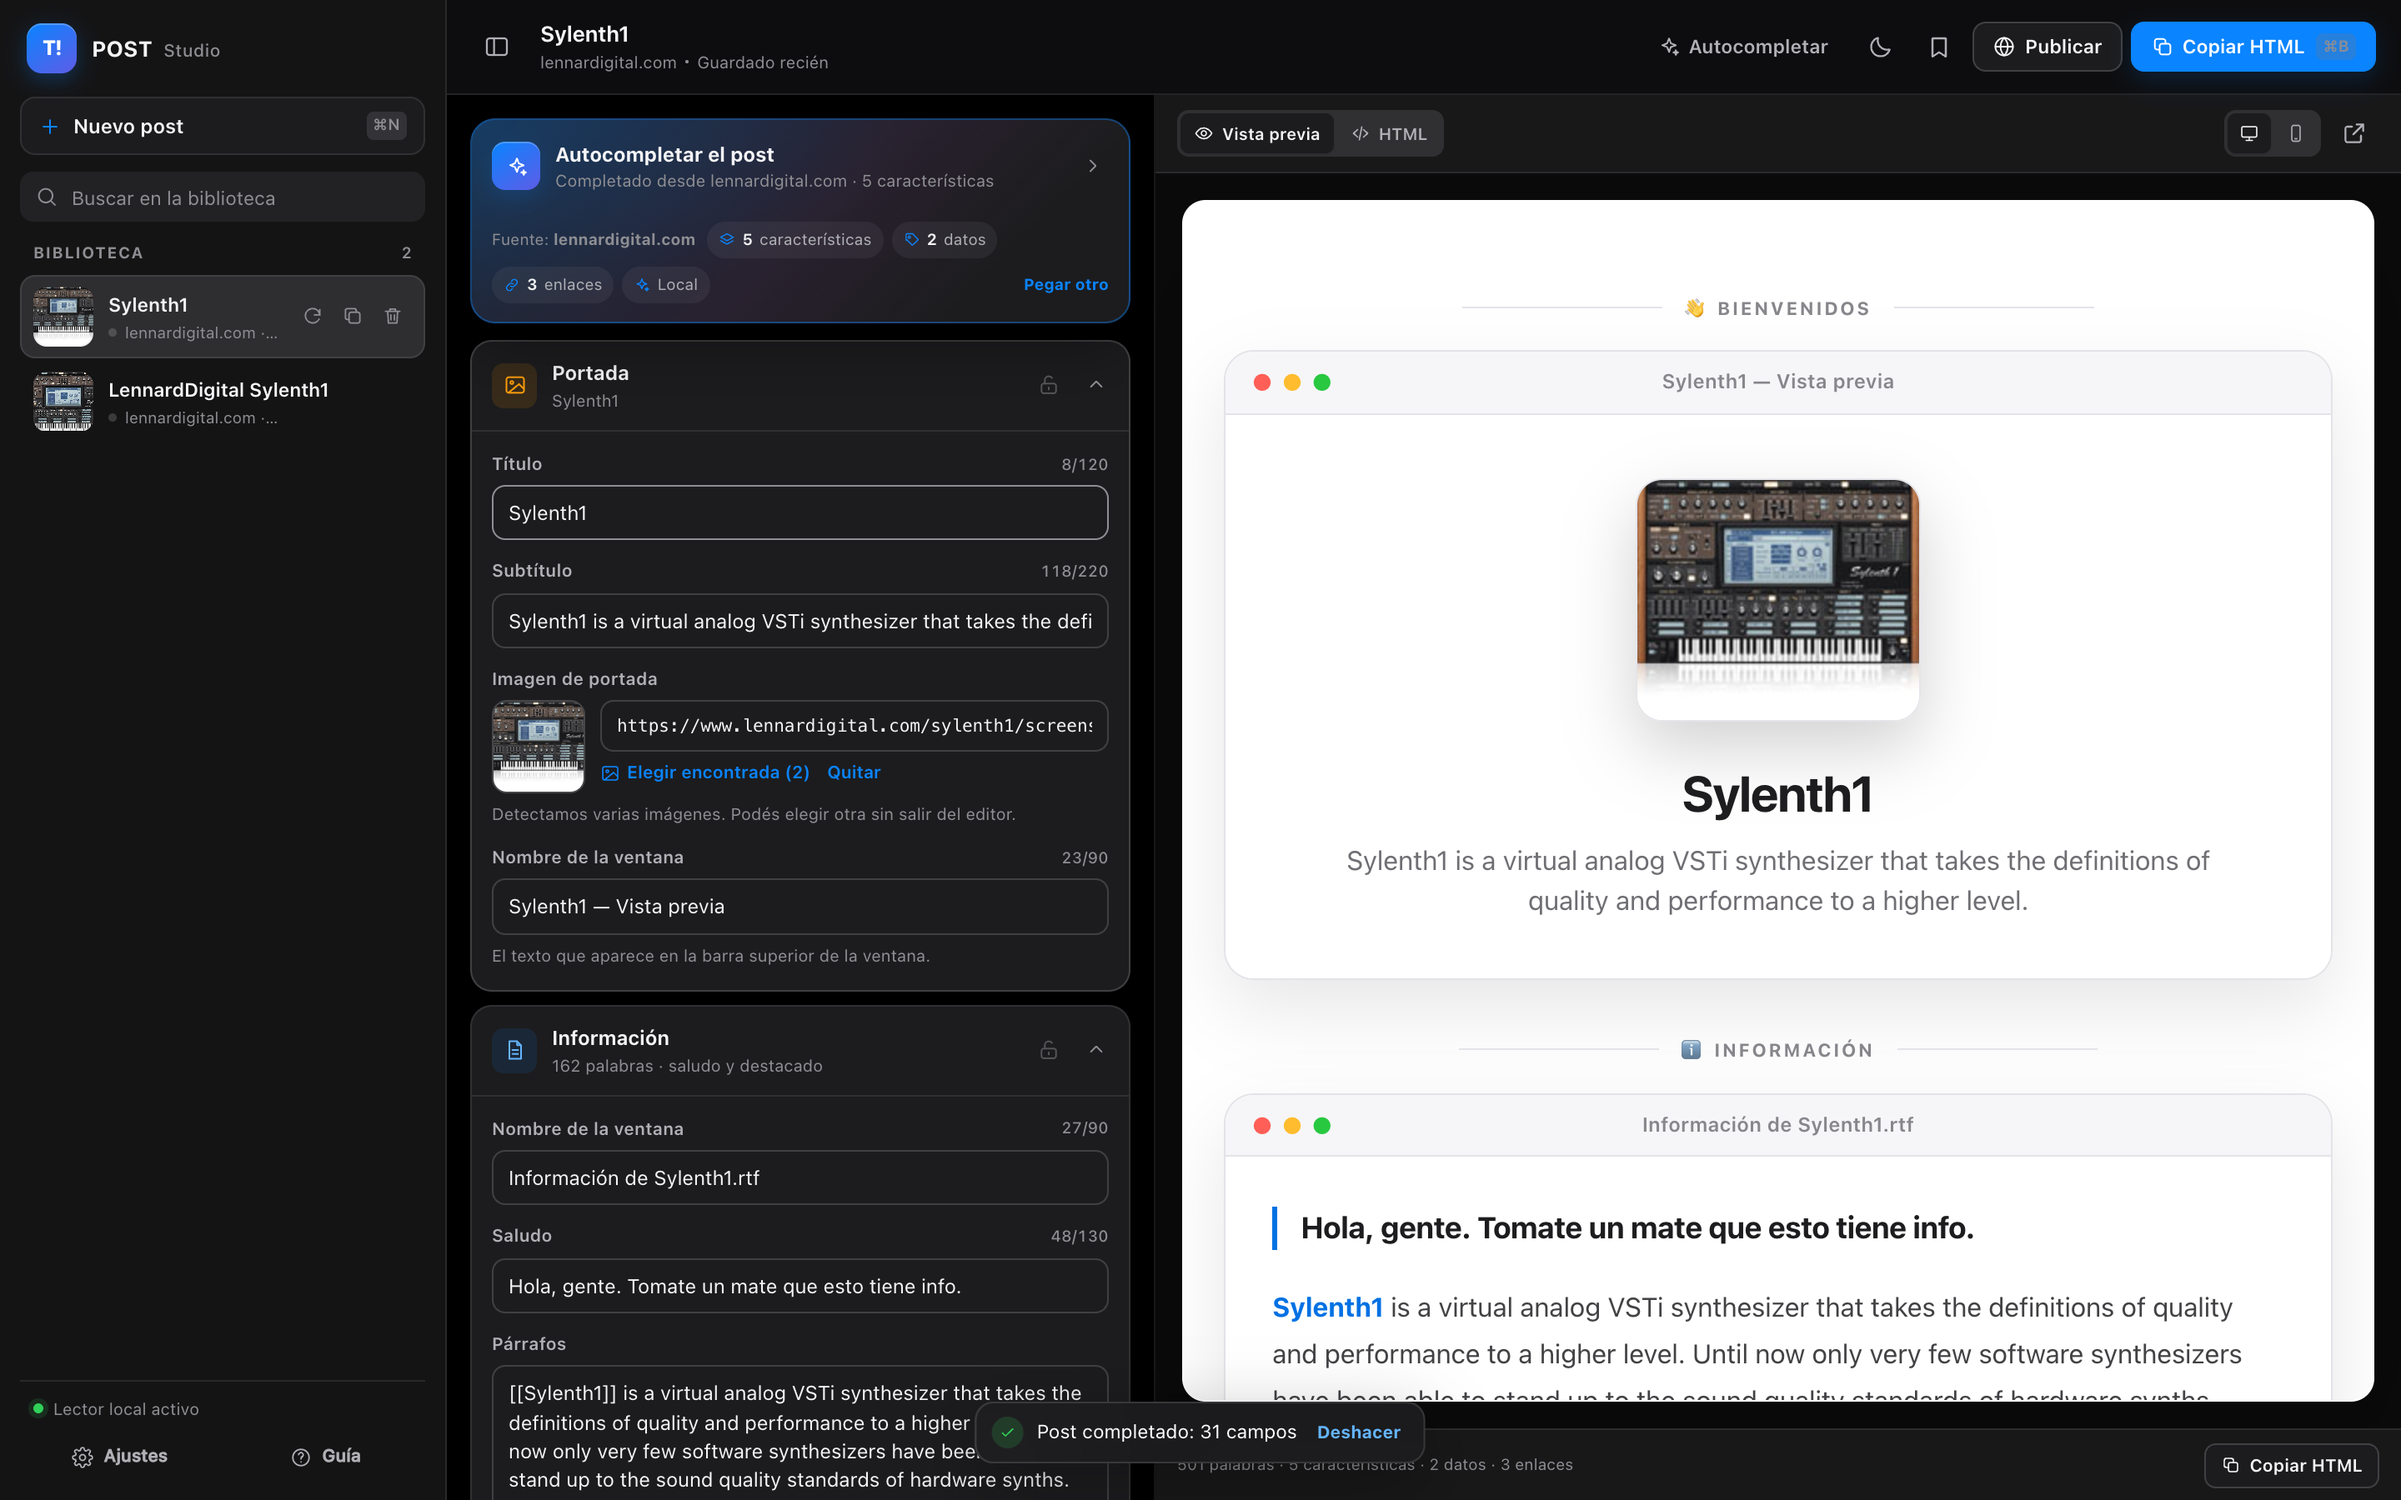
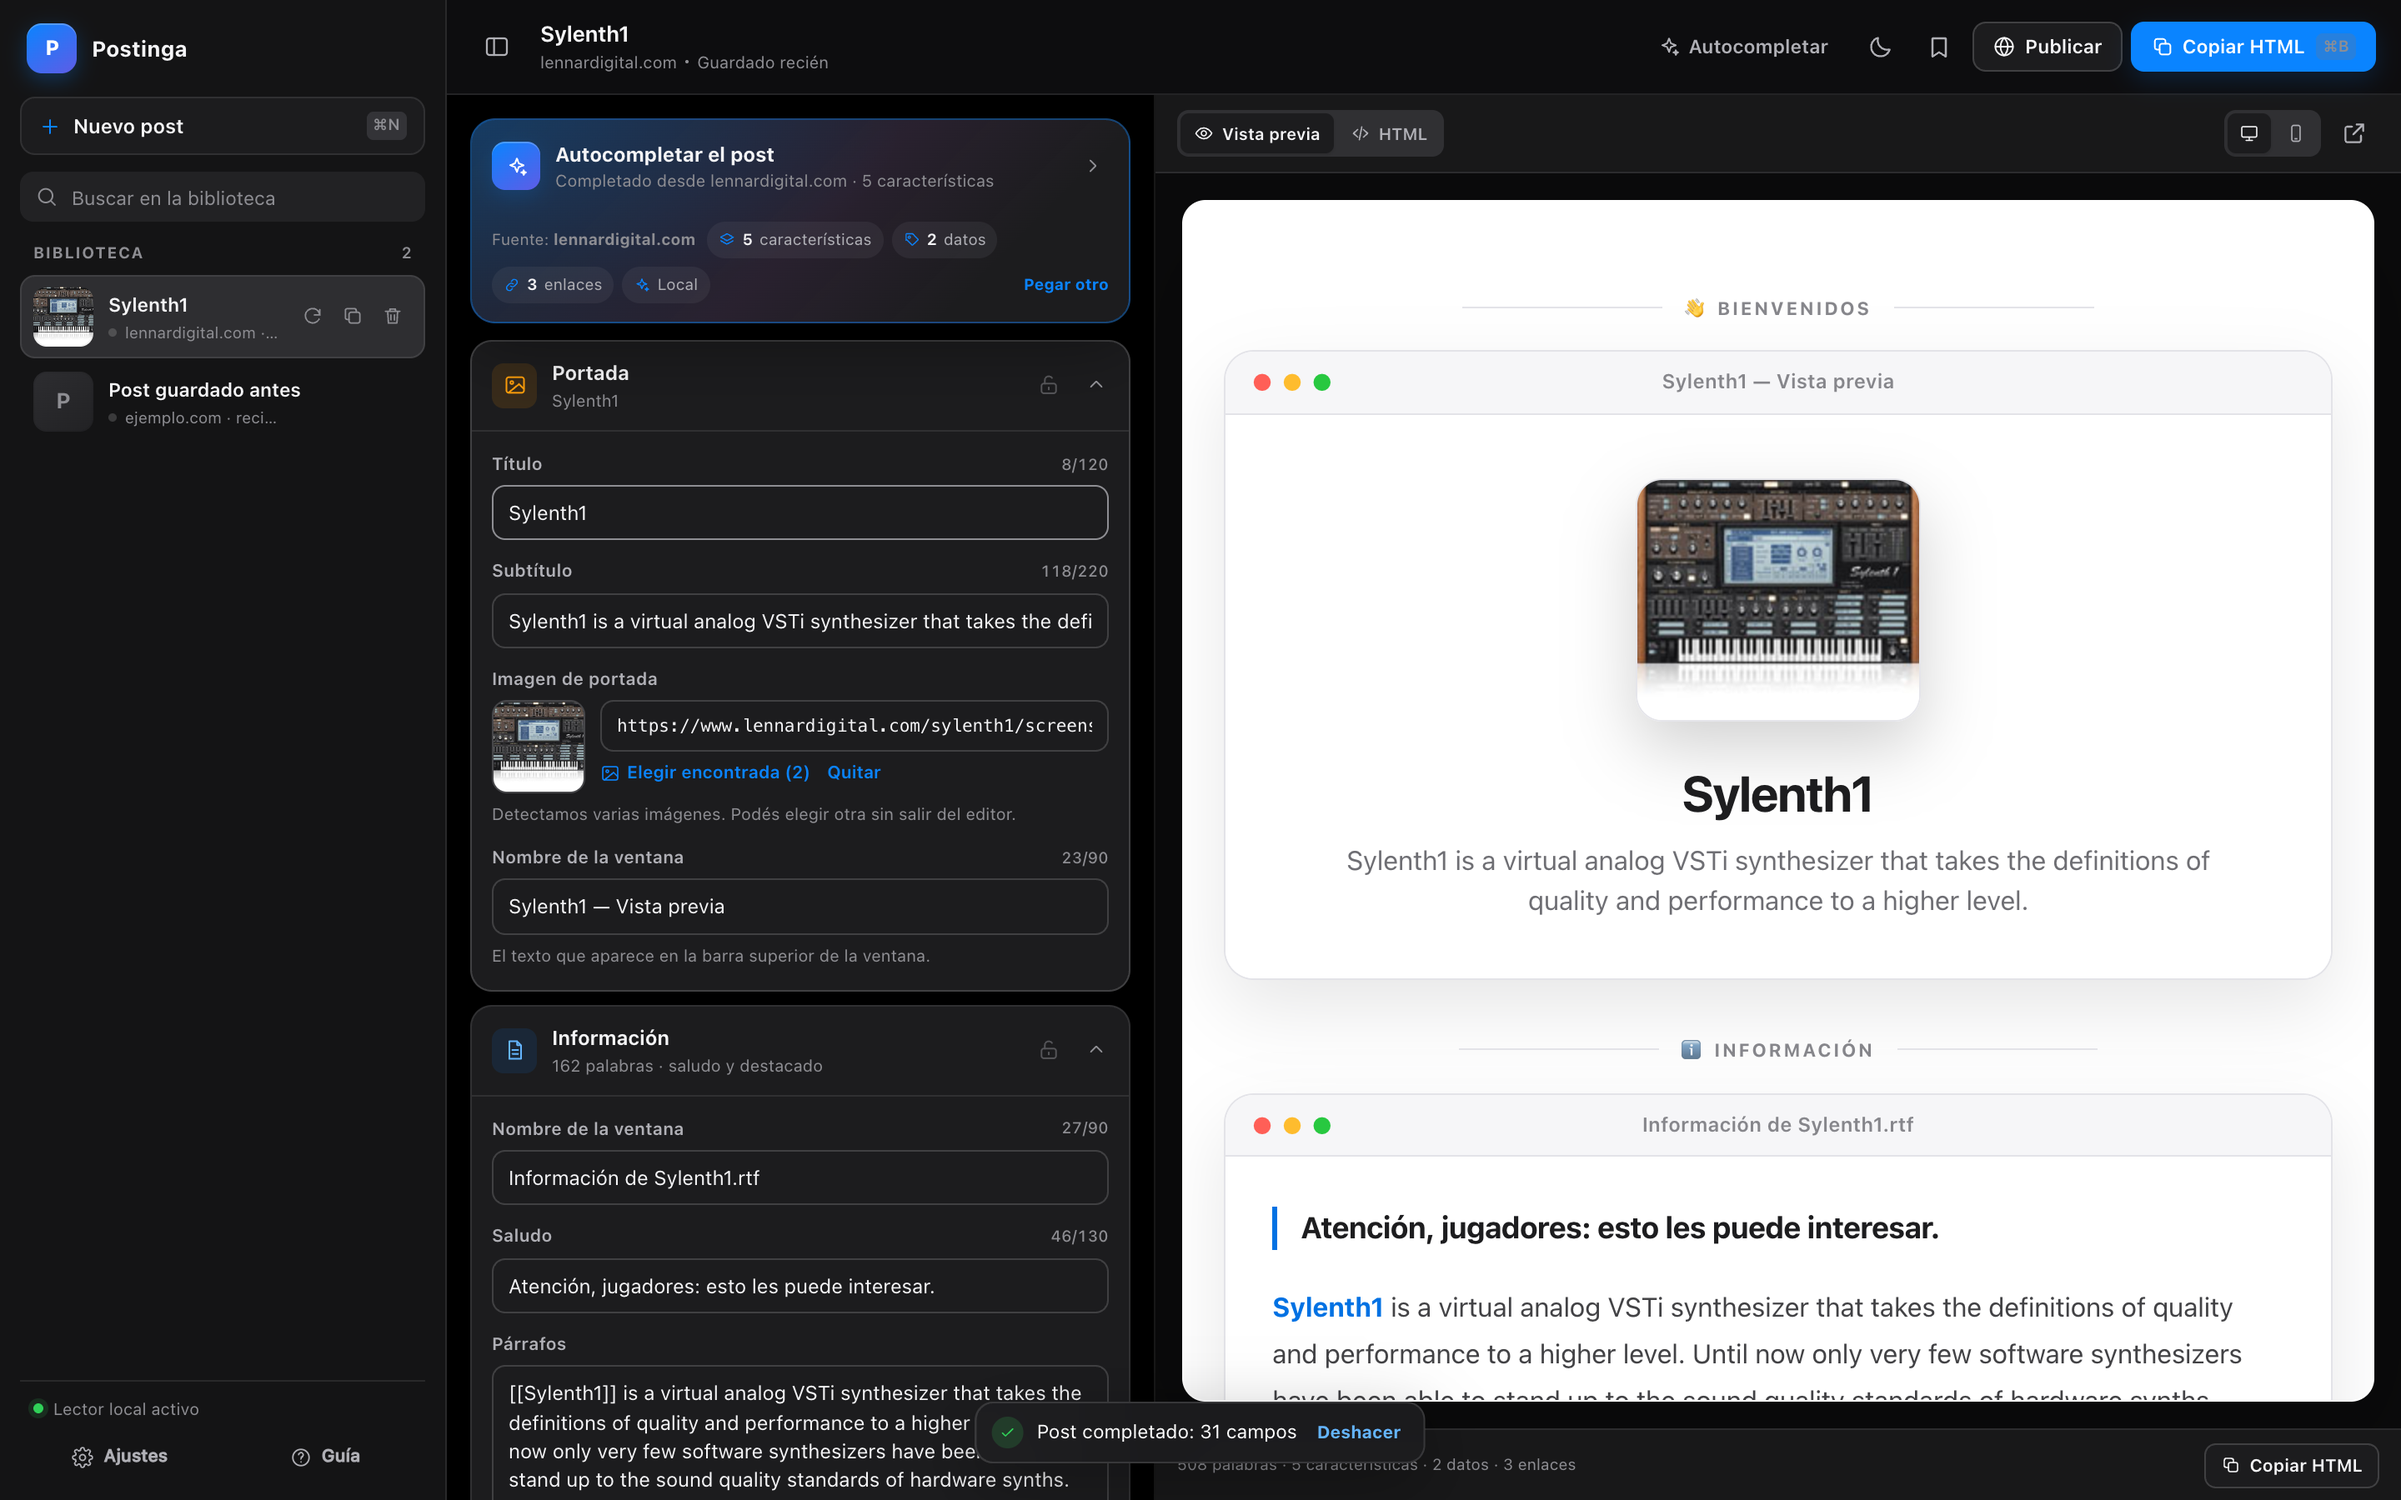
Renombrar el producto a Postinga
- Nombre nuevo en la interfaz, el título de la pestaña, el README, el
  package.json, el servidor y los lanzadores.
- Ícono nuevo: una P sobre el degradado azul-violeta.
- Las claves de almacenamiento pasan de tpost.* a postinga.* con migración
  automática, para no perder la biblioteca ni las preferencias guardadas.
- Capturas del README actualizadas con la marca nueva.

diff --git a/js/app.js b/js/app.js
@@ -1,5 +1,5 @@
 /**
- * T! POST Studio
+ * Postinga
  * Controlador de la interfaz: estado, biblioteca, captura inteligente,
  * vista previa, ajustes, atajos y publicación.
  */
@@ -10,12 +10,35 @@
    Persistencia y estado
    ============================================================ */
 const STORAGE = {
-  draft: 'tpost.draft.v1',
-  library: 'tpost.library.v1',
-  prefs: 'tpost.prefs.v1',
-  keys: 'tpost.keys.v1',
+  draft: 'postinga.draft.v1',
+  library: 'postinga.library.v1',
+  prefs: 'postinga.prefs.v1',
+  keys: 'postinga.keys.v1',
   legacy: 'taringa-editor-v1'
 };
+
+// El proyecto se llamaba tpost antes de llamarse Postinga: se copian los datos
+// guardados para que nadie pierda su biblioteca ni sus claves.
+const RENAMED_KEYS = {
+  'postinga.draft.v1': 'tpost.draft.v1',
+  'postinga.library.v1': 'tpost.library.v1',
+  'postinga.prefs.v1': 'tpost.prefs.v1',
+  'postinga.keys.v1': 'tpost.keys.v1'
+};
+
+function migrateStorage() {
+  Object.keys(RENAMED_KEYS).forEach(key => {
+    try {
+      if (localStorage.getItem(key) !== null) return;
+      const previous = localStorage.getItem(RENAMED_KEYS[key]);
+      if (previous !== null) localStorage.setItem(key, previous);
+    } catch (error) {
+      // Si el navegador bloquea el almacenamiento, se sigue sin migrar.
+    }
+  });
+}
+
+migrateStorage();
 
 const DEFAULT_PREFS = {
   appearance: 'auto',
@@ -314,7 +337,7 @@ function renderTitlebar() {
   $('#docTitle').textContent = title;
   $('#docSource').textContent = host || 'Sin fuente';
   $('#docTime').textContent = savedAt ? `Guardado ${relativeTime(savedAt)}` : 'Borrador local';
-  document.title = `${title} · T! POST Studio`;
+  document.title = `${title} · Postinga`;
   $('#libCount').textContent = String(library.length);
   $('#engineChipText').textContent = aiEngineLabel(prefs.engine);
   $('#engineChip').title = `Motor: ${aiEngineLabel(prefs.engine)}. Clic para cambiar.`;
@@ -1947,7 +1970,7 @@ async function checkReader(force) {
    ============================================================ */
 function exportLibrary() {
   const payload = {
-    app: 'tpost-studio',
+    app: 'postinga',
     version: 2,
     exportedAt: new Date().toISOString(),
     prefs: { ...prefs },
@@ -1958,7 +1981,7 @@ function exportLibrary() {
   const link = document.createElement('a');
   link.href = URL.createObjectURL(blob);
   const date = new Date().toISOString().slice(0, 10);
-  link.download = `tpost-biblioteca-${date}.json`;
+  link.download = `postinga-biblioteca-${date}.json`;
   document.body.appendChild(link);
   link.click();
   link.remove();

diff --git a/index.html b/index.html
@@ -4,15 +4,16 @@
   <meta charset="utf-8">
   <meta name="viewport" content="width=device-width, initial-scale=1, viewport-fit=cover">
   <meta name="color-scheme" content="light dark">
-  <meta name="description" content="T! POST Studio: pegás un link o un texto, se autocompletan todos los campos y copiás el HTML listo para publicar.">
-  <title>T! POST Studio — Editor inteligente de posts</title>
+  <meta name="description" content="Postinga: pegás un link o un texto, se autocompletan todos los campos y copiás el HTML listo para publicar.">
+  <title>Postinga — Editor inteligente de posts</title>
   <link rel="icon" href="assets/icon.svg" type="image/svg+xml">
   <link rel="stylesheet" href="css/style.css">
   <script>
     // Evita el destello de tema al cargar.
     (function () {
       try {
-        var prefs = JSON.parse(localStorage.getItem('tpost.prefs.v1') || '{}');
+        var raw = localStorage.getItem('postinga.prefs.v1') || localStorage.getItem('tpost.prefs.v1') || '{}';
+        var prefs = JSON.parse(raw);
         var mode = prefs.appearance || 'auto';
         var dark = window.matchMedia && window.matchMedia('(prefers-color-scheme: dark)').matches;
         var resolved = mode === 'auto' ? (dark ? 'dark' : 'light') : mode;
@@ -85,8 +86,8 @@
     <aside class="sidebar" id="sidebar" aria-label="Biblioteca de posts">
       <div class="side-top">
         <div class="brand">
-          <span class="brand-mark">T!</span>
-          <span class="brand-word">POST <em>Studio</em></span>
+          <span class="brand-mark">P</span>
+          <span class="brand-word">Postinga</span>
         </div>
         <button class="icon-btn sidebar-close" id="bSideClose" aria-label="Cerrar menú">
           <svg><use href="#i-x"/></svg>

diff --git a/server.js b/server.js
@@ -1,6 +1,6 @@
 #!/usr/bin/env node
 /**
- * T! POST Studio — servidor local sin dependencias.
+ * Postinga — servidor local sin dependencias.
  *
  * Sirve la aplicación y expone un lector de URLs (/api/fetch) que evita
  * los bloqueos de CORS y permite extraer metadatos con un User-Agent real.
@@ -403,7 +403,7 @@ function requestHandler(req, res) {
   if (requestUrl.pathname === '/api/health') {
     return sendJson(res, 200, {
       ok: true,
-      name: 'tpost-reader',
+      name: 'postinga-reader',
       version: VERSION,
       node: process.version
     });
@@ -458,7 +458,7 @@ function start(port, attempt = 0) {
     const url = `http://${HOST}:${port}`;
     console.log('');
     console.log('  ┌──────────────────────────────────────────────┐');
-    console.log('  │  T! POST Studio                              │');
+    console.log('  │  Postinga                                    │');
     console.log('  └──────────────────────────────────────────────┘');
     console.log('');
     console.log(`  Local:     ${url}`);

diff --git a/tests/run.js b/tests/run.js
@@ -1,6 +1,6 @@
 #!/usr/bin/env node
 /**
- * T! POST Studio — tests automatizados
+ * Postinga — tests automatizados
  *
  * Ejecutar:  npm test   (o)  node tests/run.js
  *
@@ -1046,7 +1046,7 @@ describeAsync('Servidor (server.js)', async () => {
     await testAsync('sirve la aplicación y todos sus recursos', async () => {
       const index = await httpRequest(base, 'GET', '/');
       equal(index.status, 200);
-      includes(index.body, 'T! POST Studio');
+      includes(index.body, 'Postinga');
       const assets = ['css/style.css', 'js/constants.js', 'js/extract.js', 'js/analyze.js', 'js/generator.js', 'js/ai.js', 'js/app.js', 'assets/icon.svg'];
       for (const asset of assets) {
         const res = await httpRequest(base, 'GET', '/' + asset);

diff --git a/css/style.css b/css/style.css
@@ -1,5 +1,5 @@
 /* ==========================================================================
-   T! POST Studio — interfaz
+   Postinga — interfaz
    Estética macOS / iOS: materiales, tipografía SF, controles nativos,
    movimiento sutil y foco en el contenido.
    ========================================================================== */

diff --git a/js/analyze.js b/js/analyze.js
@@ -1,5 +1,5 @@
 /**
- * T! POST Studio
+ * Postinga
  * Analizador heurístico local.
  * Toma un texto, un HTML o el resultado de un lector de URLs y arma
  * una estructura completa de post: portada, cuerpo, características,

diff --git a/js/ai.js b/js/ai.js
@@ -1,5 +1,5 @@
 /**
- * T! POST Studio
+ * Postinga
  * Motores de redacción con IA (opcionales): Google Gemini y cualquier
  * endpoint compatible con OpenAI (OpenAI, Ollama, LM Studio, proxies).
  *

diff --git a/js/constants.js b/js/constants.js
@@ -1,5 +1,5 @@
 /**
- * T! POST Studio
+ * Postinga
  * Constantes, paletas de salida, plantillas y utilidades compartidas.
  * Sin dependencias: este archivo se carga como script clásico.
  */

diff --git a/js/extract.js b/js/extract.js
@@ -1,5 +1,5 @@
 /**
- * T! POST Studio
+ * Postinga
  * Capa de extracción: HTML → texto/meta, markdown → datos y lectura de URLs
  * con varios lectores de respaldo.
  */

diff --git a/js/generator.js b/js/generator.js
@@ -1,5 +1,5 @@
 /**
- * T! POST Studio
+ * Postinga
  * Generador del HTML final del post.
  *
  * Reglas de oro:

diff --git a/README.md b/README.md
@@ -1,8 +1,8 @@
 <div align="center">
 
-<img src="assets/icon.svg" width="86" height="86" alt="T! POST Studio">
+<img src="assets/icon.svg" width="86" height="86" alt="Postinga">
 
-# T! POST Studio
+# Postinga
 
 **Pegás un link. El post se escribe solo.**
 
@@ -42,7 +42,7 @@ Armar un post largo es repetitivo: buscás el título, recortás la descripción
 armás la lista de características, averiguás los requisitos, juntás los links de descarga…
 y lo repetís igual para el próximo.
 
-|  | A mano | Con T! POST Studio |
+|  | A mano | Con Postinga |
 | --- | --- | --- |
 | Armar un post | 20–40 minutos | **30 segundos** |
 | Campos a completar | 20 o más | **ninguno** |
@@ -148,7 +148,7 @@ elijas: *clásico*, *gamer* o *profesional*. Si la IA falla, el post se completa
 Tema claro u oscuro automático, vista previa de escritorio y de teléfono, biblioteca plegable
 para ganar espacio, y atajos de teclado para no soltar el mouse.
 
-<img src="docs/img/movil.png" width="230" alt="T! POST Studio en el teléfono">
+<img src="docs/img/movil.png" width="230" alt="Postinga en el teléfono">
 
 <details>
 <summary><b>Ver los atajos</b></summary>
@@ -217,14 +217,14 @@ internet.
 
 <div align="center">
 
-### [▶ Abrir T! POST Studio](https://lnnb.github.io/postinga/)
+### [▶ Abrir Postinga](https://lnnb.github.io/postinga/)
 
 Sin instalar nada. Se abre y funciona.
 
 <br>
 
 <sub>¿Preferís tenerlo en tu computadora? Descargá el proyecto y hacé doble clic en
-<b>Iniciar T! POST.command</b>. Así además analiza los links de forma más confiable.</sub>
+<b>Iniciar Postinga.command</b>. Así además analiza los links de forma más confiable.</sub>
 
 </div>
 

diff --git a/docs/TECNICO.md b/docs/TECNICO.md
@@ -187,9 +187,12 @@ Todo se guarda en `localStorage` del navegador:
 
 | Clave | Contenido |
 | --- | --- |
-| `tpost.draft.v1` | El post que estás editando |
-| `tpost.library.v1` | La biblioteca de posts guardados |
-| `tpost.prefs.v1` | Apariencia, tono, motor, destino, biblioteca plegada |
-| `tpost.keys.v1` | Claves de IA (solo se envían al proveedor elegido) |
+| `postinga.draft.v1` | El post que estás editando |
+| `postinga.library.v1` | La biblioteca de posts guardados |
+| `postinga.prefs.v1` | Apariencia, tono, motor, destino, biblioteca plegada |
+| `postinga.keys.v1` | Claves de IA (solo se envían al proveedor elegido) |
+
+El proyecto se llamaba `tpost` antes de llamarse Postinga. Al arrancar se copian las claves
+viejas (`tpost.*`) a las nuevas si todavía no existen, así nadie pierde su biblioteca.
 
 No hay backend ni cuentas. La biblioteca se puede exportar e importar como JSON.
